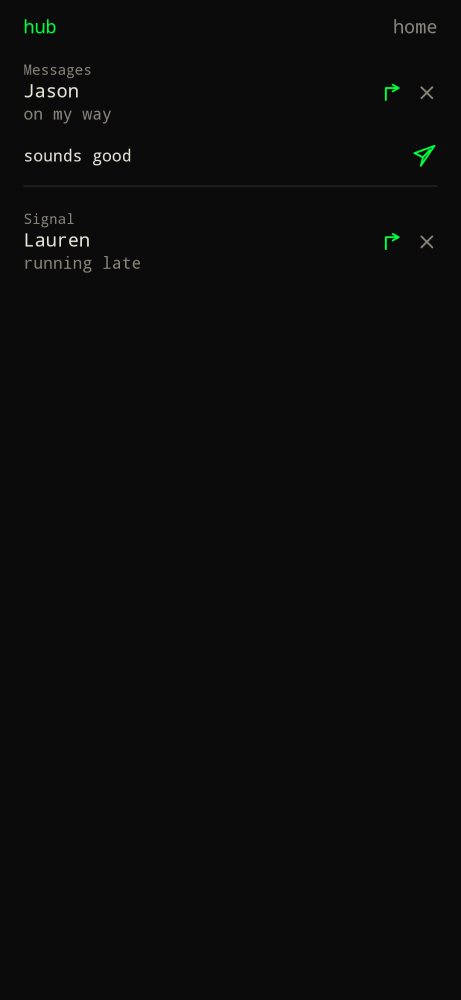
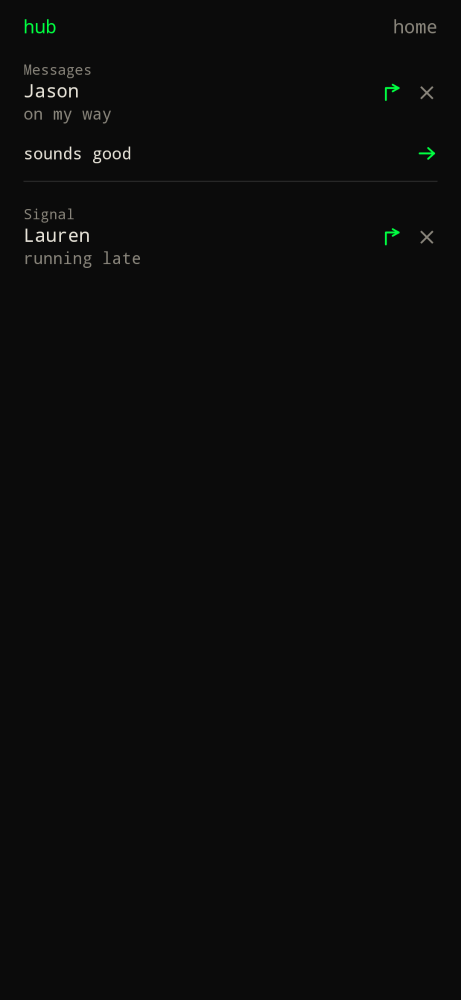
fix: use a right-facing arrow for hub send
Inline reply keeps a send control on the right; it is a simple
arrow instead of a paper airplane.

diff --git a/app/src/main/java/xyz/cdr/builderlauncher/ui/LauncherChrome.kt b/app/src/main/java/xyz/cdr/builderlauncher/ui/LauncherChrome.kt
@@ -1028,21 +1028,30 @@ fun HubReplyBar(value: String, modifier: Modifier = Modifier) {
 @Composable
 fun SendIcon(modifier: Modifier = Modifier) {
     val accent = Accent
-    Canvas(modifier.size(22.dp)) {
+    Canvas(modifier.size(18.dp)) {
         val stroke = Stroke(width = 1.6.dp.toPx(), cap = StrokeCap.Round, join = StrokeJoin.Round)
-        val pad = size.minDimension * 0.12f
-        val nose = Offset(size.width - pad, pad)
-        val left = Offset(pad, size.height * 0.40f)
-        val tail = Offset(size.width * 0.36f, size.height - pad)
-        val fold = Offset(size.width * 0.44f, size.height * 0.56f)
-        drawLine(color = accent, start = left, end = nose, strokeWidth = stroke.width, cap = StrokeCap.Round)
-        drawLine(color = accent, start = nose, end = tail, strokeWidth = stroke.width, cap = StrokeCap.Round)
-        drawLine(color = accent, start = left, end = fold, strokeWidth = stroke.width, cap = StrokeCap.Round)
-        drawLine(color = accent, start = fold, end = tail, strokeWidth = stroke.width, cap = StrokeCap.Round)
+        val pad = size.minDimension * 0.16f
+        val midY = size.height / 2f
+        val tip = Offset(size.width - pad, midY)
         drawLine(
             color = accent,
-            start = fold,
-            end = Offset(size.width * 0.70f, size.height * 0.28f),
+            start = Offset(pad, midY),
+            end = tip,
+            strokeWidth = stroke.width,
+            cap = StrokeCap.Round,
+        )
+        val ah = size.minDimension * 0.28f
+        drawLine(
+            color = accent,
+            start = tip,
+            end = Offset(tip.x - ah, tip.y - ah * 0.9f),
+            strokeWidth = stroke.width,
+            cap = StrokeCap.Round,
+        )
+        drawLine(
+            color = accent,
+            start = tip,
+            end = Offset(tip.x - ah, tip.y + ah * 0.9f),
             strokeWidth = stroke.width,
             cap = StrokeCap.Round,
         )

diff --git a/website/src/content/docs/use/hub.md b/website/src/content/docs/use/hub.md
@@ -12,7 +12,7 @@ The hub is **notifications only**. Todos stay on home / `… more tasks >`. Note
 1. Settings → **Notification access (hub)** and grant access for Builder Launcher.
 2. Posted notifications appear here (up to 80). Long message bodies clip to 3 lines.
 3. Tap the message to open it in the source app. Reply stays on the arrow.
-4. Inline reply shows a field with a paper-airplane send icon on the right.
+4. Inline reply shows a field with a right-facing send arrow on the right.
 5. Dismiss removes it from the hub (and the system shade when the listener can).
 
 ![Hub reply field with send icon](../../../assets/screenshots/hub-reply.png)
